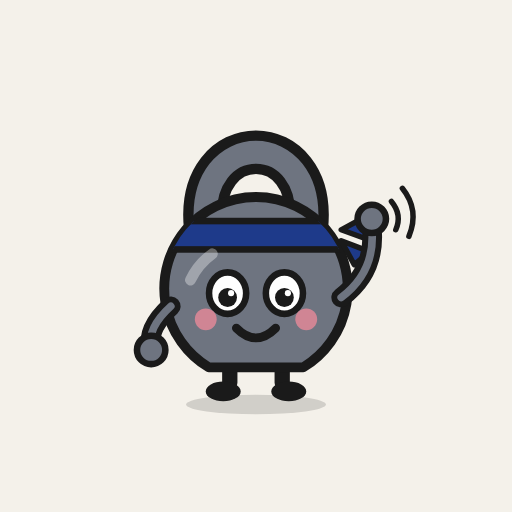
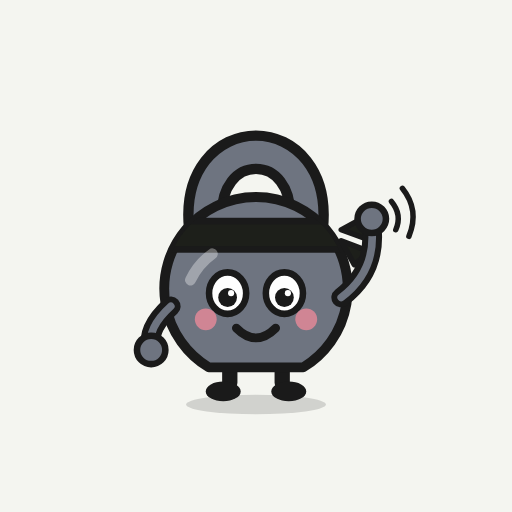
Switch to the light ink & lime theme
Paper-grey background, black buttons and summary card, lime highlights.

Claude-Session: https://claude.ai/code/session_01A3a5sPeMVJhwVDoeigEkmL

Changed region(s): [[0.3438, 0.4375, 0.6562, 0.5], [0.6875, 0.4375, 0.7188, 0.5]]

diff --git a/index.html b/index.html
@@ -3,7 +3,7 @@
 <head>
 <meta charset="utf-8">
 <meta name="viewport" content="width=device-width,initial-scale=1,viewport-fit=cover">
-<meta name="theme-color" content="#F4F1EA">
+<meta name="theme-color" content="#F4F5F0">
 <meta name="apple-mobile-web-app-capable" content="yes">
 <meta name="mobile-web-app-capable" content="yes">
 <meta name="apple-mobile-web-app-title" content="Ghisa">
@@ -18,13 +18,13 @@
 <link rel="stylesheet" href="https://fonts.googleapis.com/css2?family=JetBrains+Mono:wght@500;700&display=swap">
 <style>
 :root{
-  /* tema "navy & sand" */
-  --bg:#F4F1EA; --surface:#FFFFFF; --raise:#EAE4D8; --line:#E4DED2; --dash:#B9B0A0;
-  --text:#1C1917; --muted:#6B6358; --label:#6B6358;
-  --accent:#1E3A8A; --on-accent:#FFFFFF; --hero:#1E3A8A; --hero-hi:#FCD58A;
+  /* tema "ink & lime" */
+  --bg:#F4F5F0; --surface:#FFFFFF; --raise:#E7E9E1; --line:#E0E2D9; --dash:#B5B8AC; --tint:#E9EDDD;
+  --text:#1D1F1A; --muted:#5F6358; --label:#5F6358;
+  --accent:#1D1F1A; --on-accent:#FFFFFF; --hero:#1D1F1A; --hero-hi:#C6F06B;
   --good:#2F7D4F; --good-bg:#E1F0E6; --good-ink:#1F5C38;
   --bad:#C4483B; --bad-bg:#F8E0DC; --bad-ink:#8A2A20;
-  --area:rgba(30,58,138,.09);
+  --area:rgba(150,200,50,.22);
   /* nomi usati anche dal codice dei grafici */
   --ink:var(--text); --soft:var(--raise); --cream:var(--surface);
   --sh:0 1px 2px rgba(16,24,40,.06),0 2px 6px rgba(16,24,40,.06);
@@ -84,7 +84,7 @@ main{flex:1;padding:16px max(16px,env(safe-area-inset-left)) 20px;display:flex;f
 .erow{display:flex;align-items:center;gap:12px;background:var(--surface);border:1px solid var(--line);border-radius:14px;padding:9px 12px;min-height:56px;text-decoration:none;color:inherit;box-shadow:var(--sh)}
 .tick{width:30px;height:30px;font-family:var(--f-mono);font-weight:700;font-size:11.5px;flex:none;border:1.5px solid var(--dash);border-radius:50%;display:grid;place-items:center}
 .erow.done .tick{background:var(--good);border-color:var(--good)}
-.erow.part .tick{border-color:var(--accent);color:var(--accent);background:#E3E8F4}
+.erow.part .tick{border-color:var(--accent);color:var(--accent);background:var(--tint)}
 .ename{font-family:var(--f-display);font-weight:650;font-size:16px;line-height:1.2}
 .esub{font-size:13px;color:var(--muted)}
 .eval{display:flex;flex-direction:column;align-items:flex-end;gap:2px;flex:none;font-family:var(--f-mono)}
@@ -131,7 +131,7 @@ textarea::placeholder{color:#9A9183}
 
 nav{position:sticky;bottom:0;display:flex;justify-content:space-around;align-items:center;padding:6px 12px calc(8px + env(safe-area-inset-bottom));background:var(--surface);border-top:1px solid var(--line);z-index:5}
 nav a{display:flex;flex-direction:column;align-items:center;gap:2px;text-decoration:none;color:var(--muted);font-weight:650;font-size:12px;min-width:72px;padding:5px 10px;border-radius:12px}
-nav a[aria-current="page"]{background:#E3E8F4;color:var(--accent)}
+nav a[aria-current="page"]{background:var(--tint);color:var(--accent)}
 .sticky-foot{position:sticky;bottom:0;padding:10px 16px calc(12px + env(safe-area-inset-bottom));background:var(--surface);border-top:1px solid var(--line)}
 .toast{position:fixed;left:50%;bottom:calc(140px + env(safe-area-inset-bottom));transform:translateX(-50%) translateY(20px);opacity:0;background:var(--text);color:var(--bg);padding:10px 16px;border-radius:12px;font-weight:700;transition:.2s;pointer-events:none;z-index:9;white-space:nowrap}
 .toast.on{opacity:1;transform:translateX(-50%)}
@@ -161,7 +161,7 @@ nav a[aria-current="page"]{background:#E3E8F4;color:var(--accent)}
 .timer{background:var(--surface);border:1px solid var(--line);border-radius:16px;box-shadow:var(--sh);padding:12px 14px;display:flex;flex-direction:column;gap:10px}
 .timer.done{border-color:var(--good);background:linear-gradient(var(--good-bg),var(--good-bg)),var(--surface)}
 .tauto{border:1px solid var(--line);border-radius:999px;background:transparent;font-weight:650;font-size:12.5px;padding:6px 12px;min-height:34px;display:inline-flex;align-items:center;gap:5px;color:var(--muted)}
-.tauto[aria-pressed="true"]{background:#E3E8F4;color:var(--accent)}
+.tauto[aria-pressed="true"]{background:var(--tint);color:var(--accent)}
 .tring{position:relative;width:136px;height:136px;margin:0 auto}
 .tring svg{width:100%;height:100%;display:block}
 .tring circle{transition:stroke-dashoffset .25s linear}
@@ -334,7 +334,7 @@ function timerHtml(){
   return '<section class="timer'+(T.done?" done":"")+'" aria-label="Rest timer">'+
     '<div class="row between"><h2 class="title-m">Rest</h2><button class="tauto" data-act="tauto" aria-pressed="'+T.auto+'">'+(T.auto?I.checkInk:"")+'Auto-start on Save</button></div>'+
     '<div class="tstage"><div class="tring"><svg viewBox="0 0 200 200" aria-hidden="true"><circle cx="100" cy="100" r="84" fill="none" style="stroke:var(--soft)" stroke-width="16"/>'+
-      '<circle id="tarc" cx="100" cy="100" r="84" fill="none" stroke="'+(T.done?"#2F7D4F":"#1E3A8A")+'" stroke-width="16" stroke-linecap="round" stroke-dasharray="'+RING.toFixed(1)+'" stroke-dashoffset="'+(RING*(1-frac)).toFixed(1)+'" transform="rotate(-90 100 100)"/></svg>'+
+      '<circle id="tarc" cx="100" cy="100" r="84" fill="none" stroke="'+(T.done?"#2F7D4F":"#1D1F1A")+'" stroke-width="16" stroke-linecap="round" stroke-dasharray="'+RING.toFixed(1)+'" stroke-dashoffset="'+(RING*(1-frac)).toFixed(1)+'" transform="rotate(-90 100 100)"/></svg>'+
       '<div class="tcenter"><span id="tdisp" class="tdisp" role="timer" aria-live="off">'+(T.done?"Go!":fmtT(rem))+'</span><span id="tstate" class="label" style="color:var(--muted)">'+state+'</span></div></div>'+
       (T.done ? bellSay("go",64,"Go! Next set") : T.running ? bellSay("rest",64,"Breathe…") : T.left!=null ? bellSay("sleep",64,"Paused") : bellSay("hi",64,"Rest between sets"))+'</div>'+
     '<div class="tdur" role="group" aria-label="Duration">'+opts+'</div>'+
@@ -527,7 +527,7 @@ function vEx(id){
 
 /* ---------- progressi (sola lettura): generale → gruppo → esercizio ---------- */
 /* colori dei grafici */
-var CH = { ink:"#1C1917", hollow:"#FFFFFF", halo:"#FFFFFF", grid:"#E4DED2" };
+var CH = { ink:"#1C1917", hollow:"#FFFFFF", halo:"#FFFFFF", grid:"#E0E2D9" };
 var P = { m:"kg", r:"all", ov:"lines" };
 var METRICS = {
   "kg": { label:"Weight", info:"The heaviest weight you lifted in each workout." },

diff --git a/sw.js b/sw.js
@@ -1,5 +1,5 @@
 // Ghisa: funzionamento offline. Cambia VERSION a ogni aggiornamento dell'app.
-const VERSION = "ghisa-v8";
+const VERSION = "ghisa-v9";
 const FILES = ["./", "./index.html", "./manifest.webmanifest", "./icon-192.png", "./icon-512.png", "./icon-180.png", "./icon-32.png"];
 self.addEventListener("install", e => { e.waitUntil(caches.open(VERSION).then(c => c.addAll(FILES))); self.skipWaiting(); });
 self.addEventListener("activate", e => {

diff --git a/README.md b/README.md
@@ -19,7 +19,7 @@ Funziona interamente nel browser: niente server, niente account. I dati restano 
 ## Aggiornare l'app
 
 1. Sostituisci `index.html` nel repository con la nuova versione.
-2. In `sw.js` cambia `VERSION` (es. da `ghisa-v8` a `ghisa-v9`), così i telefoni scaricano la nuova versione.
+2. In `sw.js` cambia `VERSION` (es. da `ghisa-v9` a `ghisa-v10`), così i telefoni scaricano la nuova versione.
 
 ## Spostare i dati
 
